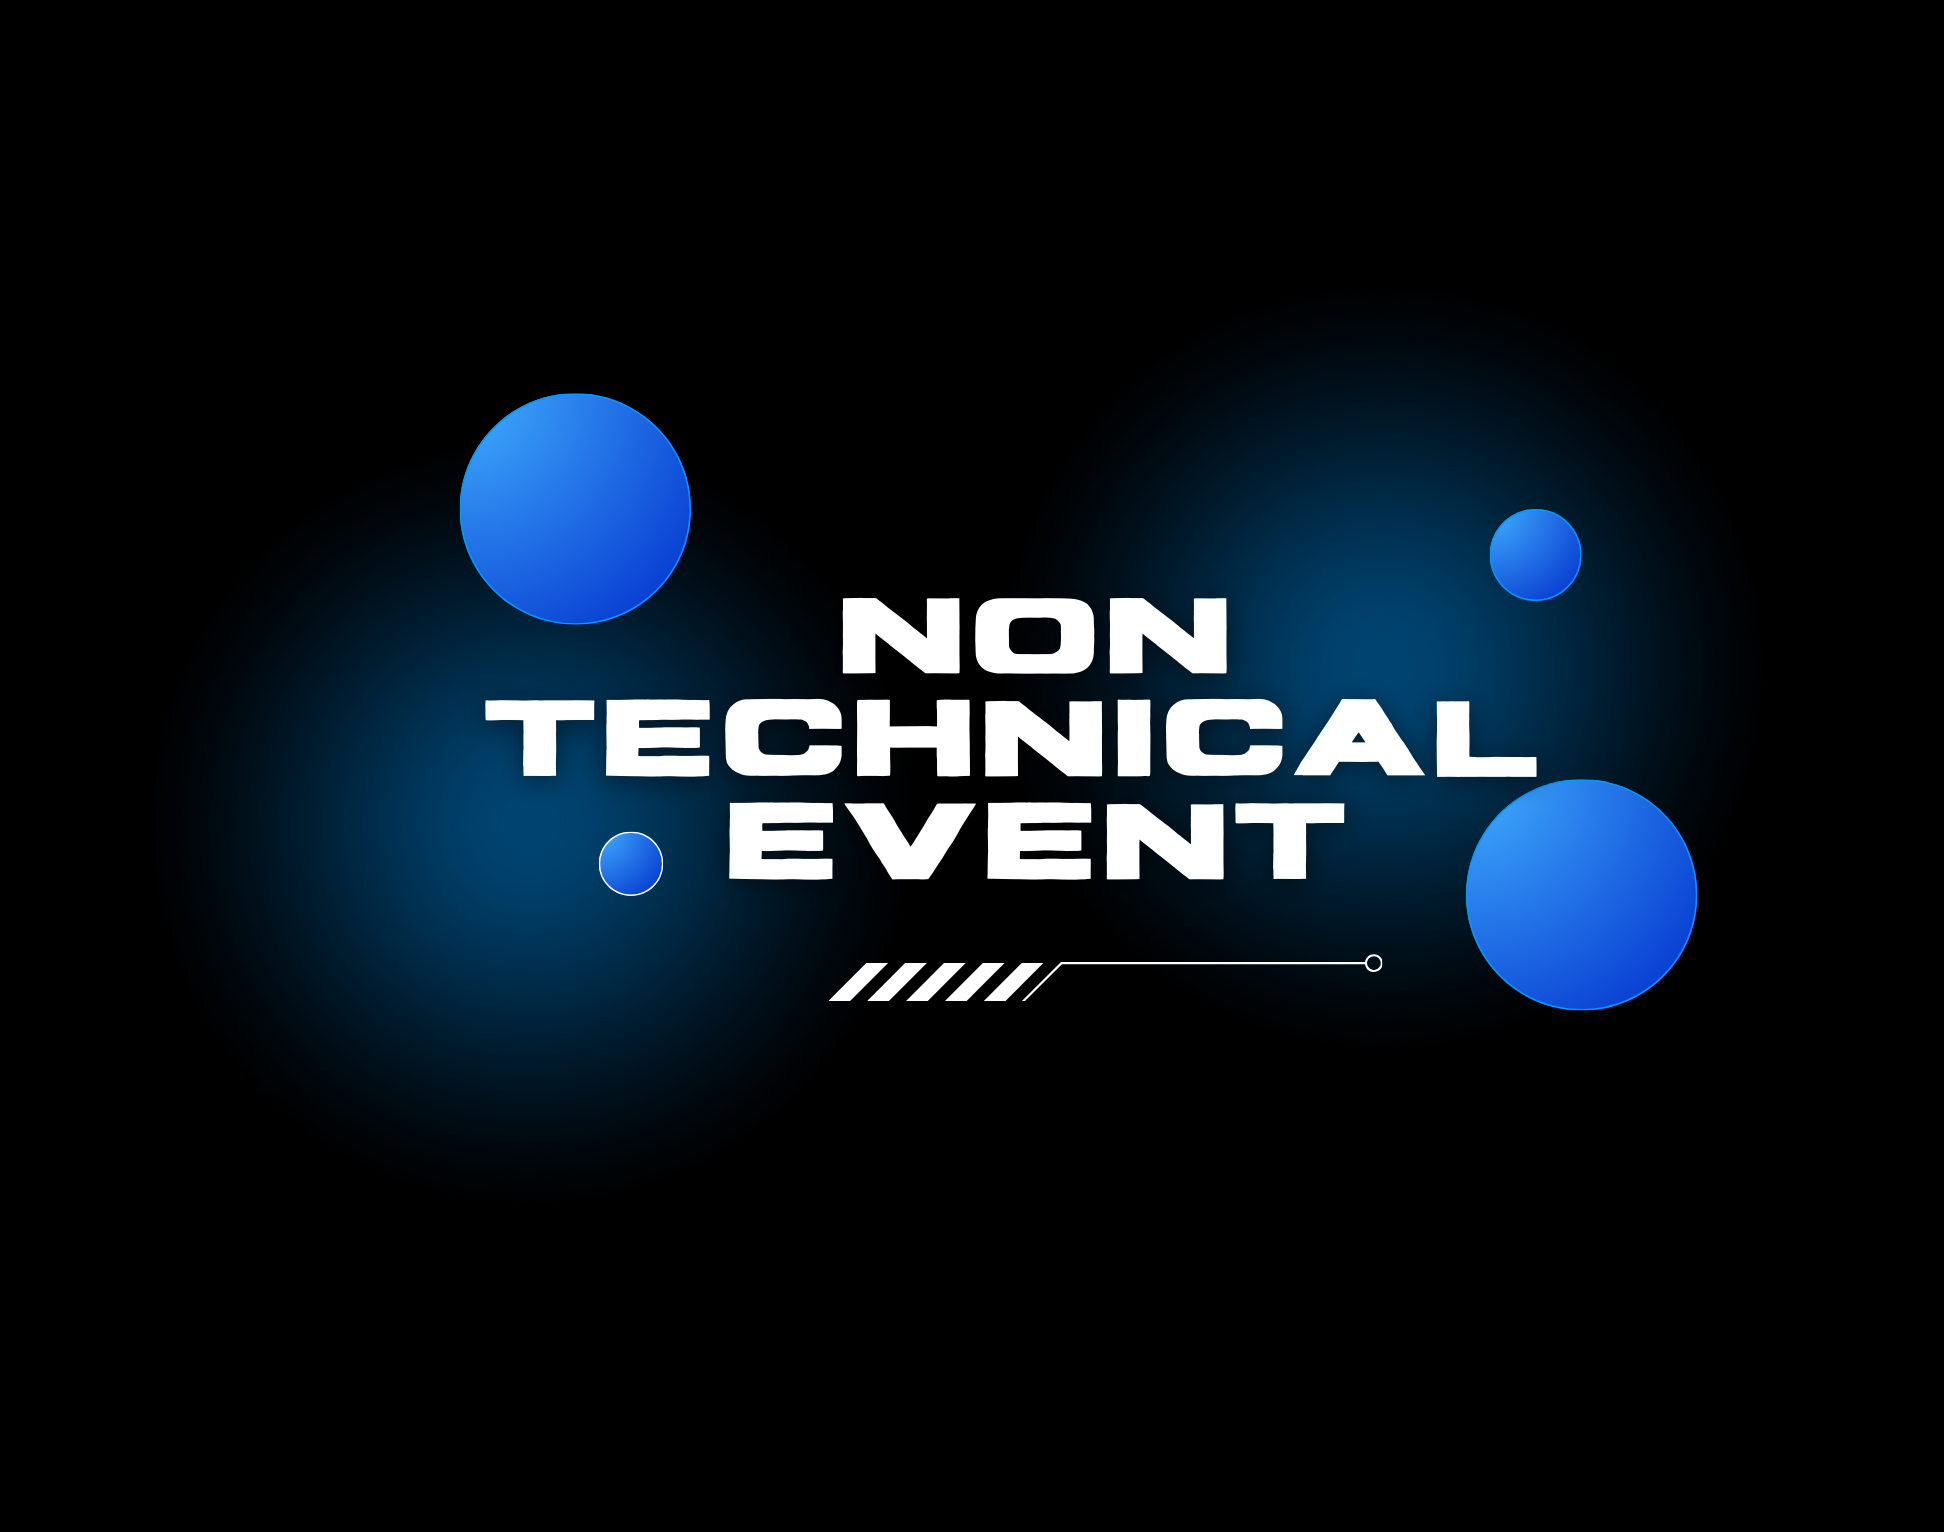
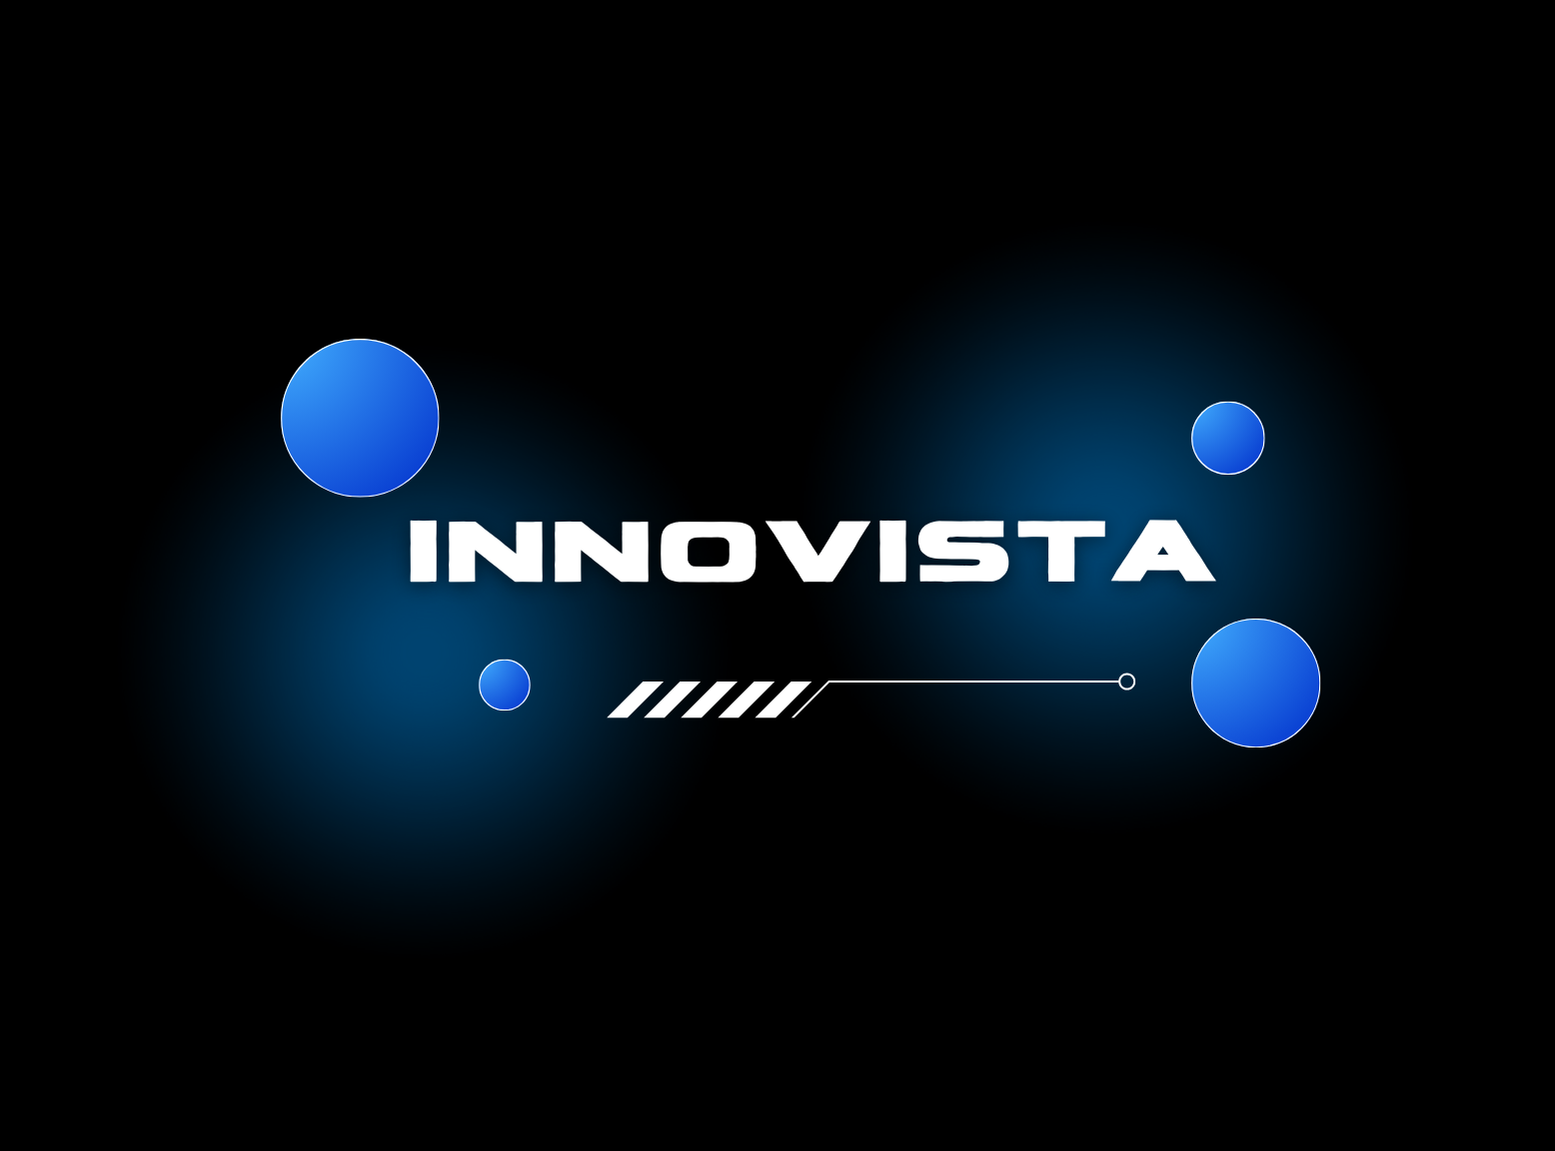
event page

Changed region(s): [[0.1543, 0.2433, 0.8952, 0.669], [0.7408, 0.3345, 0.8334, 0.4257], [0.3087, 0.5474, 0.3395, 0.6386]]

diff --git a/events.html b/events.html
@@ -70,22 +70,21 @@
         <div class="events-grid">
           <div class="event-card">
             <div class="event-image">
-              <img src="./images/Sigmoid.png" alt="Hackathon" />
+              <img src="./images/11.png" alt="Techfusion" />
             </div>
             <div class="event-content">
               <h3>Techfusion</h3>
-              <p>Combine research with communication to share insights and innovative ideas.</p>
+              <p>A Techfusion is an event where participants submit and present research papers for evaluation..</p>
               <a href="https://drive.google.com/file/d/1cEYVxsPqrHrdAf7FJnepJ6i4CPFsCr8J/view?usp=drive_link" download="" target="_blank"><button class="register-btn">Download Details</button></a>
             </div>
           </div>
           <div class="event-card">
             <div class="event-image">
-              <img src="./images/Sigmoid.png" alt="Coding" />
+              <img src="./images/12.png" alt="Posterize" />
             </div>
             <div class="event-content">
               <h3>Posterize</h3>
-              <p>A contest where participants blend text and graphics to create a compelling research 
-                presentation on the path to victory.</p>
+              <p>A poster presentation is an event where participants display and present their research on a visual poster..</p>
               <a href="https://drive.google.com/file/d/1yiX1RVwqEtnjDkOYRYLnvshDnQfYHqcZ/view?usp=drive_link" download="" target="_blank"><button class="register-btn">Download Details</button></a>
             </div>
           </div>
@@ -98,21 +97,21 @@
         <div class="events-grid">
             <div class="event-card">
               <div class="event-image">
-                <img src="./images/Sigmoid.png" alt="Hackathon" />
+                <img src="./images/9.png" alt="Innovista" />
               </div>
               <div class="event-content">
                 <h3>Innovista</h3>
-                <p>An electrifying project expo and prototype showcase, where innovation meets creativity.</p>
+                <p>Innovista is an event where participants display innovative DIY projects and showcase technical creativity..</p>
                 <a href="https://drive.google.com/file/d/1hCuZMXhhU0_DY6Jzc2S6_fSNWJOPkvh1/view?usp=drive_link" download="" target="_blank"><button class="register-btn">Download Details</button></a>
               </div>
             </div>
             <div class="event-card">
               <div class="event-image">
-                <img src="./images/Sigmoid.png" alt="Coding" />
+                <img src="./images/10.png" alt="Techcrix" />
               </div>
               <div class="event-content">
                 <h3>Techcrix</h3>
-                <p>A contest which challenges electronics enthusiasts and designer to apply theory to real world circuit.</p>
+                <p>TECHCRIX is an event where participants solve circuit questions and build models to test their skills..</p>
                 <a href="https://drive.google.com/file/d/1BL5BZhNhdt1ozqrUtjfNVkd52_EiJ4K3/view?usp=drive_link" download="" target="_blank"><button class="register-btn">Download Details</button></a>
               </div>
             </div>
@@ -121,19 +120,19 @@
         <div class="events-grid">
           <div class="event-card">
             <div class="event-image">
-              <img src="./images/Sigmoid.png" alt="Hackathon" />
+              <img src="./images/14.png" alt="Quiztronics" />
             </div>
             <div class="event-content">
               <div>
                 <h3>Quiztronics</h3>
               </div>
-              <p>A contest with exciting quiz competetion designed to test participants knowledge across various domains.</p>
+              <p>ElectroQuiz is a three-round quiz that challenges participants on electronics, current affairs, and emerging technologies, with scores represented as "Bits."</p>
               <a href="https://drive.google.com/file/d/15D6W6GZ9kRfd8Aq95yxI4vCamMFDaq68/view?usp=drivesdk" download="" target="_blank"><button class="register-btn">Download Details</button></a>
             </div>
           </div>
           <div class="event-card">
             <div class="event-image">
-              <img src="./images/Sigmoid.png" alt="Coding" />
+              <img src="./images/13.png" alt="CodeVerse" />
             </div>
             <div class="event-content">
               <h3>CodeVerse</h3>
@@ -156,22 +155,22 @@
         <div class="events-grid">
             <div class="event-card">
               <div class="event-image">
-                <img src="./images/9.png" alt="Hackathon" />
+                <img src="./images/16.png" alt="Click Fest" />
               </div>
               <div class="event-content">
                 <h3>Click Fest</h3>
-                <p>24-hour hackathon to build innovative solutions</p>
+                <p>CLICK FEST is a photography contest where participants capture creative images based on themes, showcasing technical skills and unique perspectives of daily life.</p>
                 <a href="https://drive.google.com/file/d/1aiJ3boBfRFws6evA1JrjwJSbhwuL06q-/view?usp=drive_link" download="" target="_blank"><button class="register-btn">Download Details</button></a>
               </div>
             </div>
 
             <div class="event-card">
               <div class="event-image">
-                <img src="./images/9.png" alt="Coding" />
+                <img src="./images/17.png" alt="DumbCharades" />
               </div>
               <div class="event-content">
                 <h3>DumbCharades and Pictionary</h3>
-                <p>Find and fix bugs in complex code</p>
+                <p>DUMDCHARADES AND PICTIONARY is a two-level game featuring Dumbcharades and Pictionary, testing acting, observation, and drawing skills.</p>
                 <a href="https://drive.google.com/file/d/1fhV91g3DY43lWF4pmjAQbwkRWGM2rZ2o/view?usp=drive_link" download="" target="_blank"><button class="register-btn">Download Details</button></a>
               </div>
             </div>
@@ -183,22 +182,22 @@
           <div class="events-grid">
             <div class="event-card">
               <div class="event-image">
-                <img src="./images/9.png" alt="Hackathon" />
+                <img src="./images/18.png" alt="kims game " />
               </div>
               <div class="event-content">
                 <h3>Kim's Game</h3>
-                <p>24-hour hackathon to build innovative solutions</p>
+                <p>KIM'S GAME is a 3-level memory game where participants identify missing or misplaced objects to advance through rounds.</p>
                 <a href="https://drive.google.com/file/d/1YSQs76a8M3nZC7ZEpQsG3FKhultd2flQ/view?usp=drive_link" download="" target="_blank"><button class="register-btn">Download Details</button></a>
               </div>
             </div>
             <div class="event-card">
               <div class="event-image">
-                <img src="./images/9.png" alt="Coding" />
+                <img src="./images/19.png" alt="GuessBusters" />
               </div>
 
               <div class="event-content">
                 <h3>Guess Busters</h3>
-                <p>Find and fix bugs in complex code</p>
+                <p>Guess Busters is a two-round game where players guess phrases and movie-related clues.</p>
                 <a href="https://drive.google.com/file/d/1vVMIFN9VRIDUr6DvhLQ5N6b5vhrzQONq/view?usp=drive_link" download="" target="_blank"><button class="register-btn">Download Details</button></a>
               </div>
             </div>
@@ -215,22 +214,26 @@
         <div class="events-grid">
             <div class="event-card">
               <div class="event-image">
-                <img src="./images/10.png" alt="Hackathon" />
+                <img src="./images/work.png" alt="Hackathon" />
               </div>
               <div class="event-content">
-                <h3>Code Marathon</h3>
-                <p>24-hour hackathon to build innovative solutions</p>
-                <a href="" download=""><button class="register-btn">Download Details</button></a>
+                <h3>ISRO workshop</h3>
+                <p>ISRO Seminar on Rockets led by an ISRO scientist, focusing on rocket technology and space exploration.</p>
+                <a href="workshop-details.html" target="_blank">
+                  <button class="register-btn">Download Details</button>
+                </a>
               </div>
             </div>
             <div class="event-card">
               <div class="event-image">
-                <img src="./images/10.png" alt="Coding" />
+                <img src="./images/work.png" alt="Coding" />
               </div>
               <div class="event-content">
-                <h3>Debug Master</h3>
-                <p>Find and fix bugs in complex code</p>
-                <a href="" download=""><button class="register-btn">Download Details</button></a>
+                <h3>CLoud technologies</h3>
+                <p>Cloud Technologies Session by Ignite Club , focused on cloud computing solutions, offering insights into cloud infrastructure, services, and trends.</p>
+                <a href="workshop-details.html" target="_blank">
+                  <button class="register-btn">Download Details</button>
+                </a>
               </div>
             </div>
         </div>
@@ -242,22 +245,27 @@
           <div class="events-grid">
             <div class="event-card">
               <div class="event-image">
-                <img src="./images/10.png" alt="Hackathon" />
+                <img src="./images/work.png" alt="Hackathon" />
               </div>
               <div class="event-content">
-                <h3>Code Marathon</h3>
-                <p>24-hour hackathon to build innovative solutions</p>
-                <a href="" download=""><button class="register-btn">Download Details</button></a>
+                <h3>Iot Workshop</h3>
+                <p>IoT Workshop is a hands-on session where participants learn about Internet of Things (IoT) technologies, devices, and applications.</p>
+                <a href="workshop-details.html" target="_blank">
+                  <button class="register-btn">Download Details</button>
+                </a>
+                
               </div>
             </div>
             <div class="event-card">
               <div class="event-image">
-                <img src="./images/10.png" alt="Coding" />
+                <img src="./images/work.png" alt="Coding" />
               </div>
               <div class="event-content">
-                <h3>Debug Master</h3>
-                <p>Find and fix bugs in complex code</p>
-                <a href="" download=""><button class="register-btn">Download Details</button></a>
+                <h3>Robotics Workshop</h3>
+                <p>Robotics Workshop is a hands-on session where participants learn to design, build, and program robots.</p>
+                <a href="workshop-details.html" target="_blank">
+                  <button class="register-btn">Download Details</button>
+                </a>
               </div>
             </div>
       </section>

diff --git a/workshop-details.html b/workshop-details.html
@@ -1,0 +1,38 @@
+<!DOCTYPE html>
+<html lang="en">
+<head>
+  <meta charset="UTF-8">
+  <meta name="viewport" content="width=device-width, initial-scale=1.0">
+  <title>Workshop Details</title>
+  <style>
+    body {
+      font-family: Arial, sans-serif;
+      margin: 20px;
+      background-color: #f4f4f9;
+    }
+    .content {
+      background-color: white;
+      padding: 20px;
+      border-radius: 8px;
+      box-shadow: 0 0 10px rgba(0, 0, 0, 0.1);
+    }
+    h1 {
+      color: #333;
+    }
+    p {
+      color: #555;
+    }
+    .insta-info {
+      color: #0077b5;
+      font-weight: bold;
+    }
+  </style>
+</head>
+<body>
+  <div class="content">
+    <h1>Workshop Details</h1>
+    <p>We are excited to offer various workshops! The details on how many workshops you can attend will be announced on <strong>March 20 or March 21</strong> on our Instagram.</p>
+    <p class="insta-info">Please follow our Instagram for more updates!</p>
+  </div>
+</body>
+</html>
